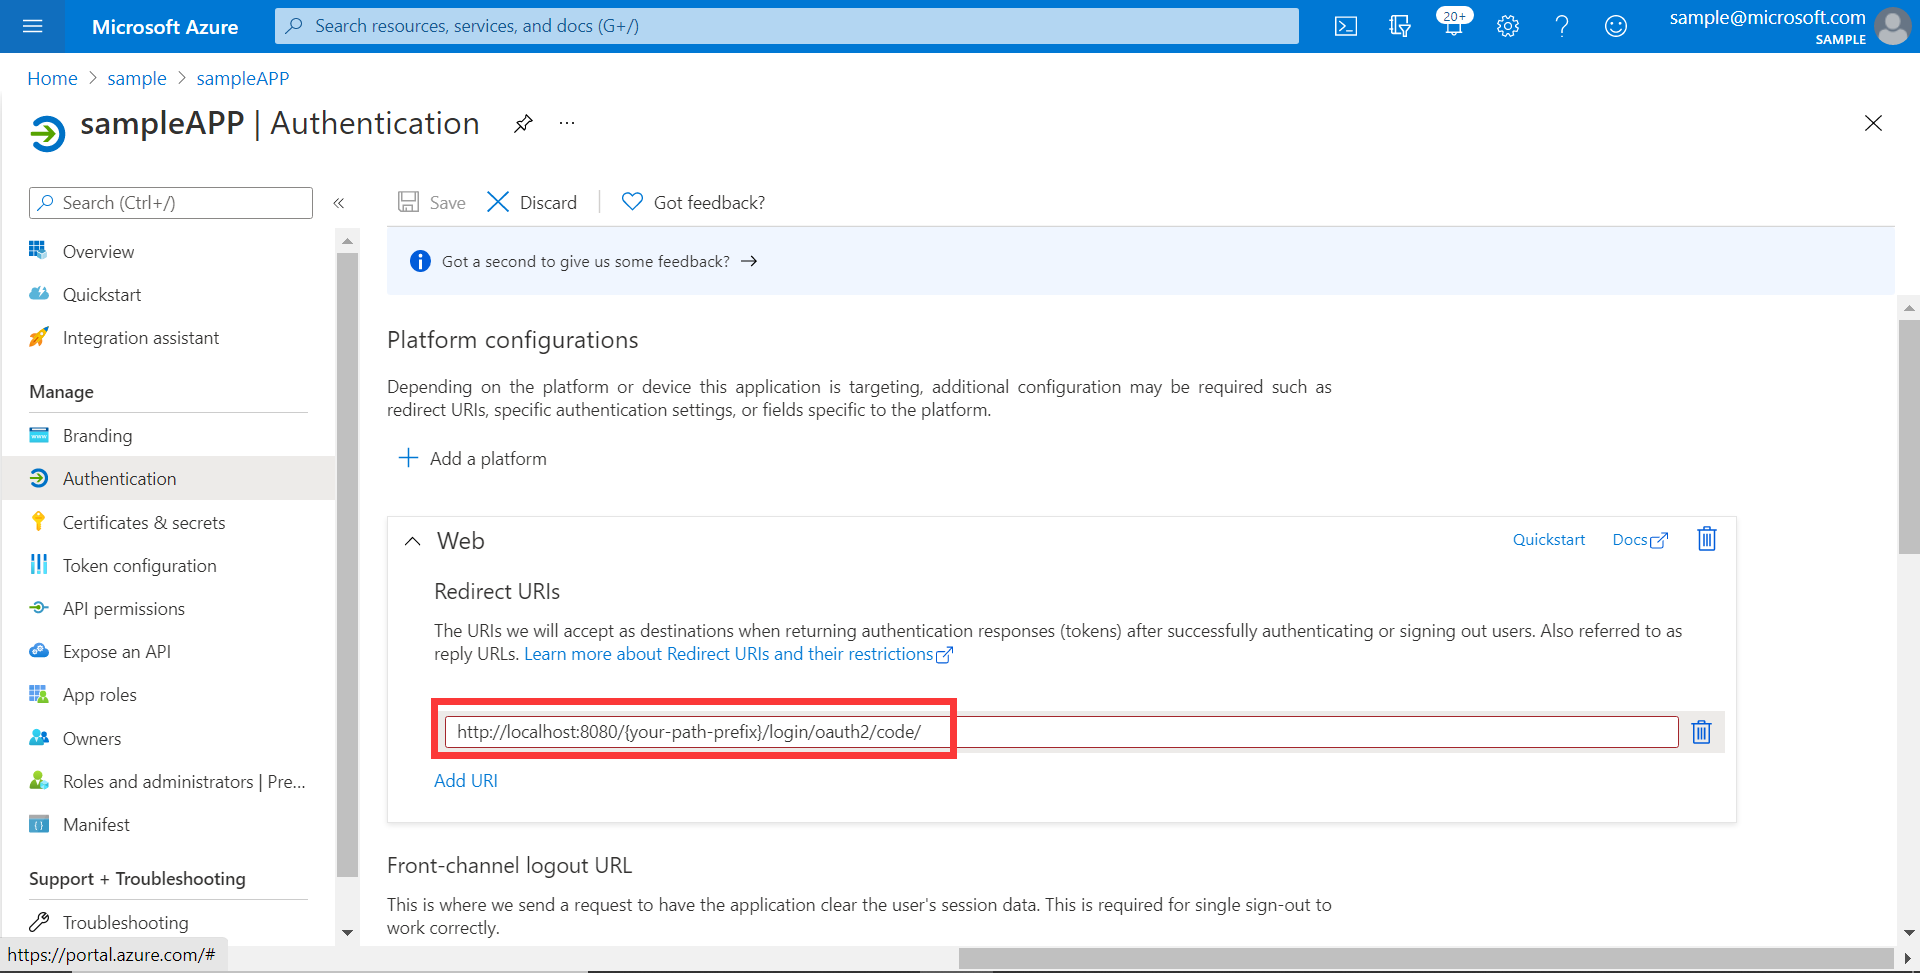
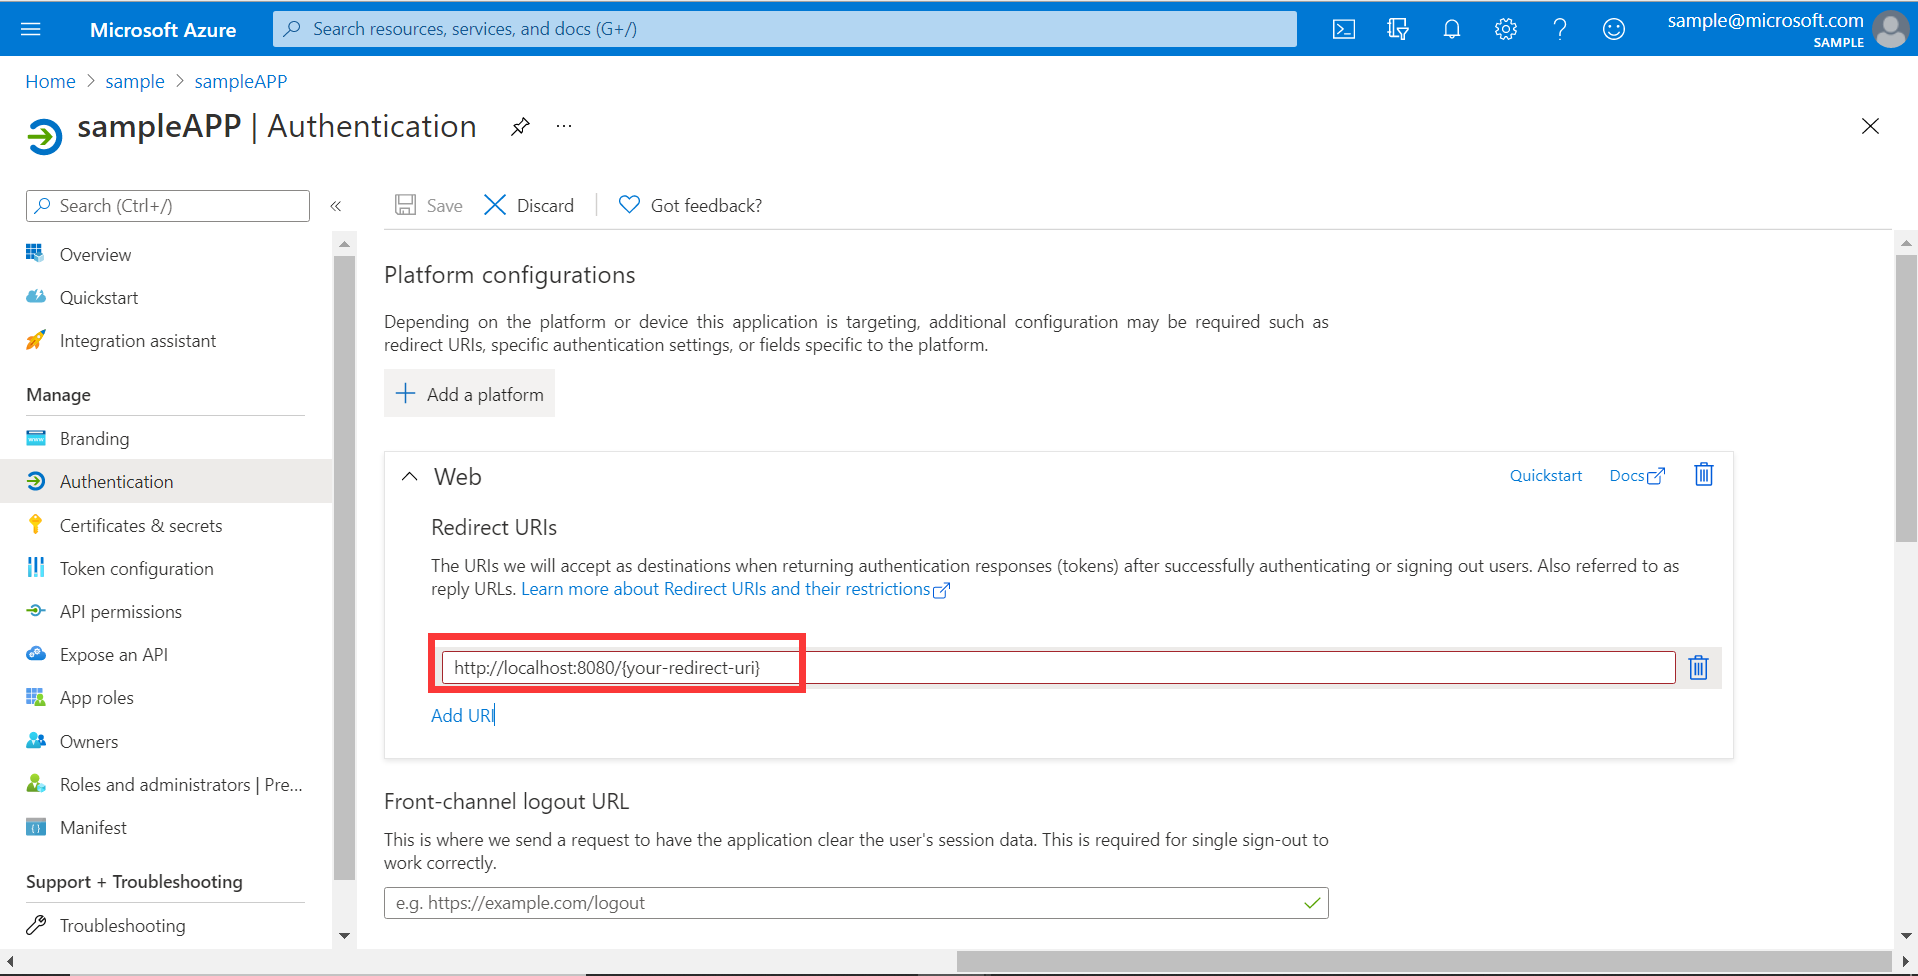
Solve comments.

diff --git a/sdk/spring/azure-spring-boot-starter-active-directory/README.md b/sdk/spring/azure-spring-boot-starter-active-directory/README.md
@@ -571,31 +571,17 @@ In [Resource server visiting other resource server] scenario(For better descript
     }
     ```  
 
-#### Support users setting redirect-uri
+#### Support setting redirect-uri-template.
 
-This starter supports Reset Redirection Endpoint(authorization server to return responses containing authorization credentials to the client via the resource owner user-agent). Developers can add path prefix for redirect-uri.
+This starter supports Reset Redirection Endpoint(authorization server to return responses containing authorization credentials to the client via the resource owner user-agent). Developers can customize the redirect-uri.
+
+![what-is-redirect-uri](resource/what-is-redirect-uri.png)
 
 * Step 1: Add `redirect-uri-template` properties in application.yml.
     ```yaml
-      azure:
-        activedirectory:
-          client-id: <client-id>
-          client-secret: <client-secret>
-          tenant-id: <tenant-id>
-          user-group:
-            allowed-group-names: group1,group2
-            allowed-group-ids: <group1-id>,<group2-id>
-            enable-full-list: false
-          post-logout-redirect-uri: http://localhost:8080
-          redirect-uri-template: '{baseUrl}/{your-path-prefix}/login/oauth2/code/'
-          authorization-clients:
-            arm:
-              on-demand: true
-              scopes: https://management.core.windows.net/user_impersonation
-            graph:
-              scopes:
-                - https://graph.microsoft.com/User.Read
-                - https://graph.microsoft.com/Directory.Read.All
+        azure:
+          activedirectory:
+            redirect-uri-template: --your-redirect-uri-template--
     ```
 
 * Step 2: Update the configuration of the azure cloud platform in the portal.
@@ -607,7 +593,7 @@ We need to configure the same redirect-uri as application.yml:
 
 * Step 3: Write your Java code:
 
-When we add the path prefix to the redirect-uri, we need to update the local access policy, otherwise request will be intercepted.
+After we set redirect-uri-template, we need to update `SecurityConfigurerAdapter`:
 
 ```java
 @EnableWebSecurity
@@ -620,7 +606,7 @@ public class AADOAuth2LoginSecurityConfig extends AADWebSecurityConfigurerAdapte
     protected void configure(HttpSecurity http) throws Exception {
         super.configure(http);
         http.oauth2Login()
-                .loginProcessingUrl("/{your-path-prefix}/login/oauth2/code/*")
+                .loginProcessingUrl("/{your-path-prefix}")
                 .and()
             .authorizeRequests()
                 .anyRequest().authenticated();

diff --git a/sdk/spring/azure-spring-boot/CHANGELOG.md b/sdk/spring/azure-spring-boot/CHANGELOG.md
@@ -1,13 +1,13 @@
 # Release History
 
 ## 3.5.0-beta.1 (Unreleased)
-
+### New Features
+- Enable property azure.activedirectory.redirect-uri-template.([#21116](https://github.com/Azure/azure-sdk-for-java/issues/21116))
 
 ## 3.4.0 (2021-04-19)
 ### Key Bug Fixes
 - Fix bug of Keyvault refresh Timer task blocking application termination. ([#20014](https://github.com/Azure/azure-sdk-for-java/pull/20014))
 - Fix bug that user-name-attribute cannot be configured. ([#20209](https://github.com/Azure/azure-sdk-for-java/issues/20209))
-- Support setting redirect-uri property in aad stater.([#21132](https://github.com/Azure/azure-sdk-for-java/issues/21116))
 
 ## 3.3.0 (2021-03-22)
 ### New Features

diff --git a/sdk/spring/azure-spring-boot-starter-active-directory/CHANGELOG.md b/sdk/spring/azure-spring-boot-starter-active-directory/CHANGELOG.md
@@ -4,7 +4,7 @@
 ### New Features
 - Upgrade to [spring-boot-dependencies:2.4.5](https://repo.maven.apache.org/maven2/org/springframework/boot/spring-boot-dependencies/2.4.5/spring-boot-dependencies-2.4.5.pom).
 - Upgrade to [spring-cloud-dependencies:2020.0.2](https://repo.maven.apache.org/maven2/org/springframework/cloud/spring-cloud-dependencies/2020.0.2/spring-cloud-dependencies-2020.0.2.pom).
-- Support setting redirect-uri property in aad stater.([#21132](https://github.com/Azure/azure-sdk-for-java/issues/21116))
+- Enable property azure.activedirectory.redirect-uri-template.([#21116](https://github.com/Azure/azure-sdk-for-java/issues/21116))
 
 
 
